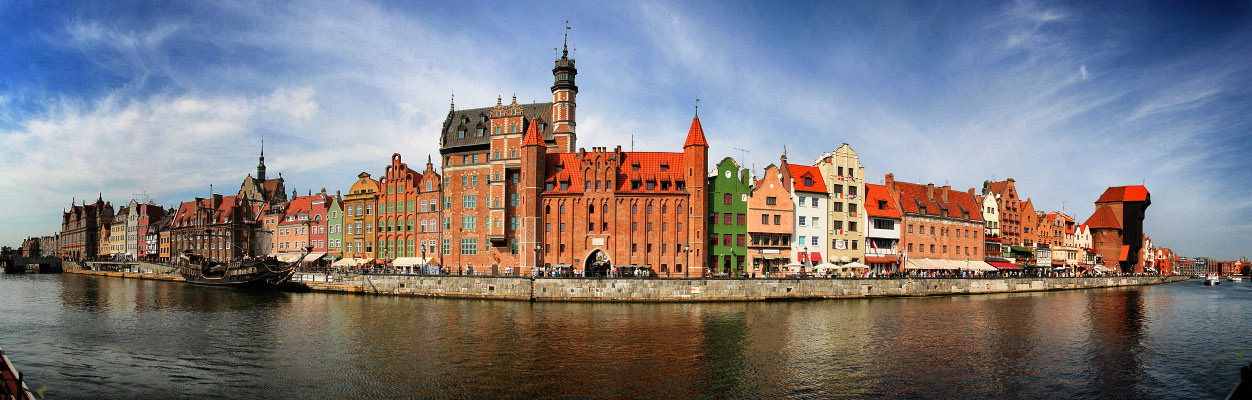
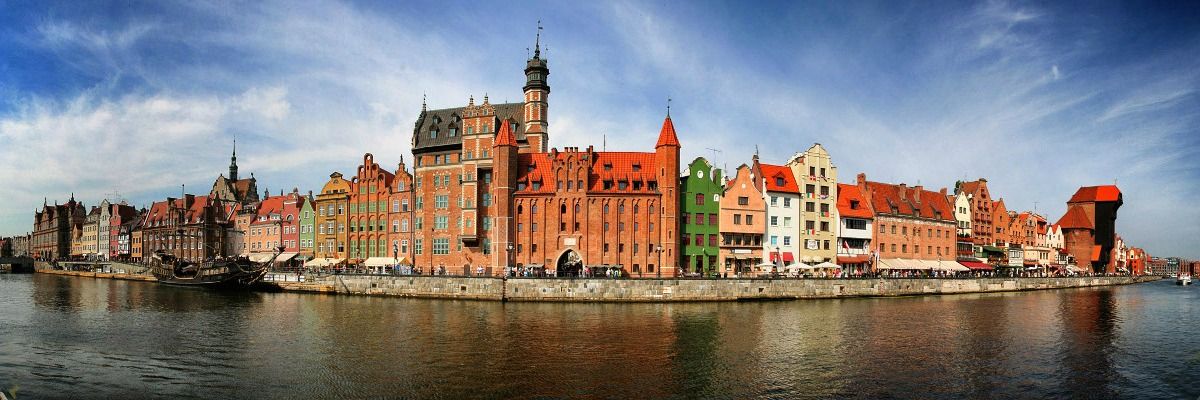
Poprawki w sekcji powitanie

diff --git a/styles/header.css b/styles/header.css
@@ -1,8 +1,9 @@
-nav{
+nav {
     position: fixed;
     width: 1200px;
     z-index: 9;
 }
+
 nav a {
     display: block;
     float: left;
@@ -14,72 +15,57 @@ nav a {
     padding: 20px 0;
     position: relative;
     top: -59px;
-
 }
 
 nav a:hover {
     background: background;
     box-shadow: 0 0 10px 1px black inset;
     transition: box-shadow 0.1s linear, background 0.1s linear;
-
 }
+
 .przycisk1 {
     background-color: navy;
 }
+
 .przycisk2 {
     background-color: red;
 }
+
 .przycisk3 {
     background-color: darkorange;
 }
+
 .przycisk4 {
     background-color: indigo;
 }
 
-
 #powitanie {
+    height: 400px;
+    width: 100%;
     position: relative;
-    width: 1200px;
     margin-top: 59px;
-    }
-#powitanie img {
-    width: 1200px;
-    margin-bottom: 50px;
+    margin-bottom: 30px;
 }
 
 h2 {
     position: absolute;
     top: 30px;
-    right: -69.6%;
-    width: 100%;
-}
-
-h2 span {
-    color: white;
-    font-family: Helvetica, sans-serif;
+    right: 0;
     font-size: 45px;
-    font-weight: bold;
-    letter-spacing: -1px;
-    background: rgba(0, 0, 0, 0.3);
-    padding: 10px;
 }
 
 h3 {
     position: absolute;
     top: 100px;
-    right: -72.4%;
-    width: 100%;
+    right: 0;
+    font-size: 30px;
 }
 
-h3 span {
+span {
     color: white;
     font-family: Helvetica, sans-serif;
-    font-size: 30px;
     font-weight: bold;
     letter-spacing: -1px;
     background: rgba(0, 0, 0, 0.3);
     padding: 10px;
 }
-
-
-

diff --git a/index.html b/index.html
@@ -24,7 +24,7 @@
         </ul>
     </nav>
     <section id="powitanie">
-        <img src="images/zdjeciePowitalne5.jpg" alt="Zdjęcie Długiego Pobrzeża w Gdańsku">
+        <img src="images/zdjeciePowitalne.jpg" alt="Długie Pobrzeże w Gdańsku">
         <h2><span>Zabytki Gdańska</span></h2>
         <br>
         <h3><span>Dokąd dziś pójdziemy?</span></h3>

diff --git a/styles/main.css b/styles/main.css
@@ -71,7 +71,7 @@ transform: scale(1.1);
     text-shadow: 10px 10px 10px black;
     font-size: 14px;
     font-weight: bold;
-    position: relative;
+    /*position: relative;*/
     top: 100px;
     left:140px;
 }
